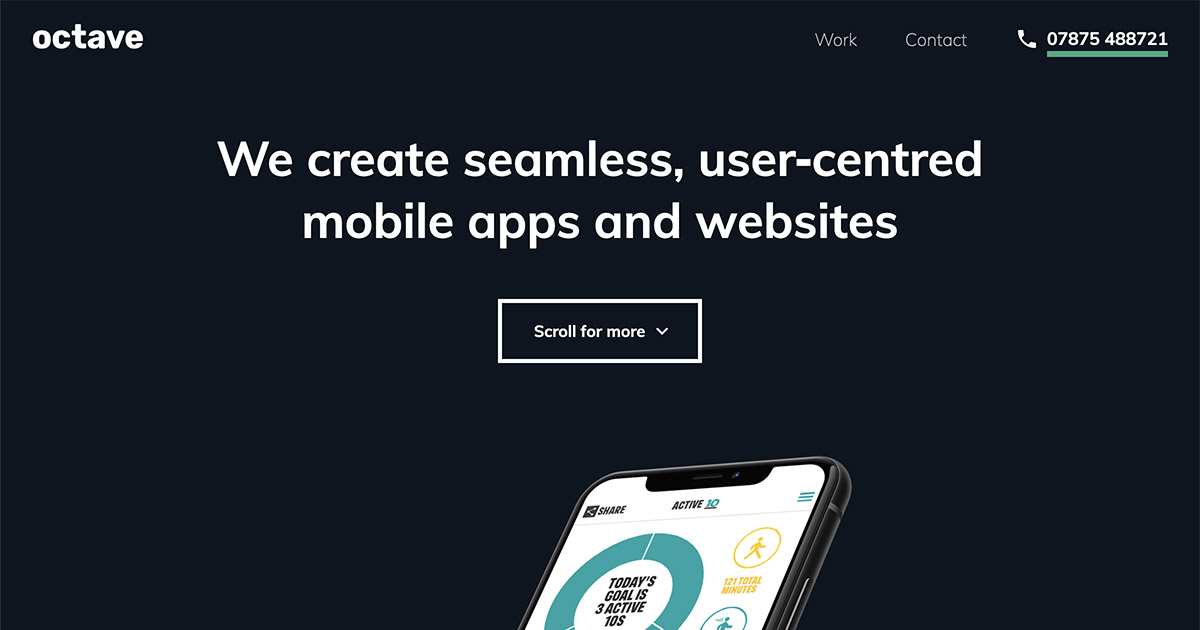
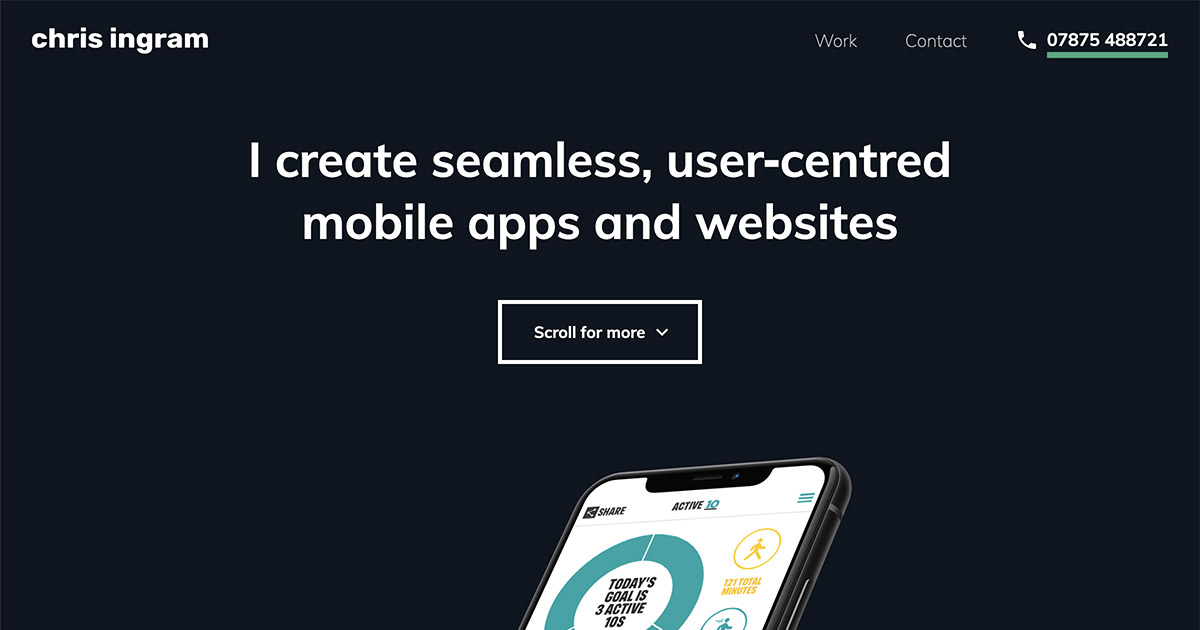
Updated feature-image and title

diff --git a/_layouts/default.html b/_layouts/default.html
@@ -6,7 +6,7 @@
     <meta name="viewport" content="width=device-width, initial-scale=1">
     <title>{{ page.title }}</title>
     <meta name="description" content="We create seamless, user-centred mobile apps and websites.">
-    <meta name="og:image" property="og:image" content="https://builtbyoctave.com/assets/images/feature-image.jpg">
+    <meta name="og:image" property="og:image" content="https://chrisingram.me/assets/images/feature-image.jpg">
     <link href="https://fonts.googleapis.com/css?family=Material+Icons|Muli:200,400,700&display=swap" rel="stylesheet">
     <link rel="stylesheet" href="{{ "/assets/css/style.css" | relative_url }}">
     <link rel="apple-touch-icon" sizes="180x180" href="/apple-touch-icon.png">

diff --git a/_includes/contact.html b/_includes/contact.html
@@ -3,7 +3,7 @@
   <p>Call me on 07875 488721 or send me an email to talk about your project.</p>
   <div class="contact-buttons">
     <a href="tel:+447875488721" class="button icon-left"><i class="material-icons">phone</i>07875 488721</a>
-    <a href="mailto:hello@builtbyoctave.com" class="button icon-left"><i class="material-icons">email</i>chris@chrisingram.me</a>
+    <a href="mailto:chris@chrisingram.me" class="button icon-left"><i class="material-icons">email</i>chris@chrisingram.me</a>
 <!--    <a href="" class="button icon-left"><i class="material-icons">arrow_right</i>Contact form</a>-->
   </div>
 </section>

diff --git a/_includes/header.html b/_includes/header.html
@@ -1,6 +1,6 @@
 <header>
   <section id="navbar">
-    <h1 class="logo"><a href="/">Octave | Mobile App Development London</a></h1>
+    <h1 class="logo"><a href="/">Chris Ingram | Mobile App Developer London</a></h1>
     <nav>
       <ul>
 <!--        <li><a href="#">About</a></li>-->
